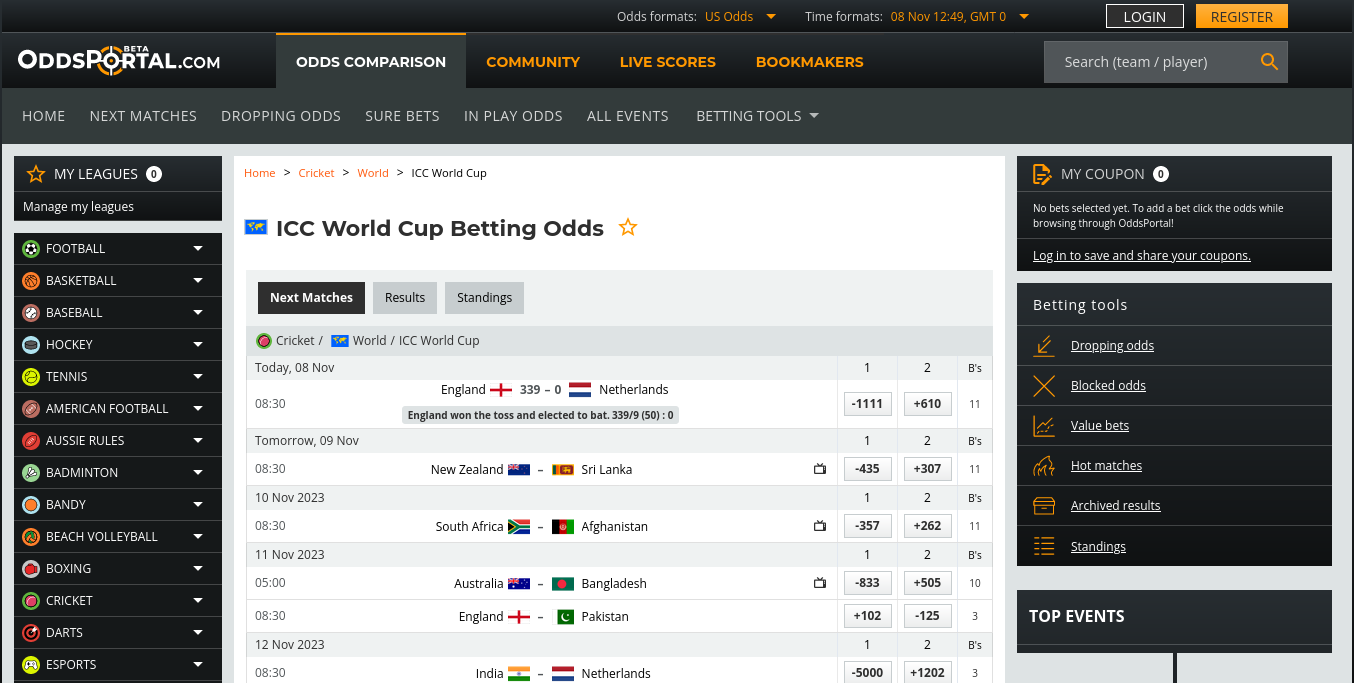
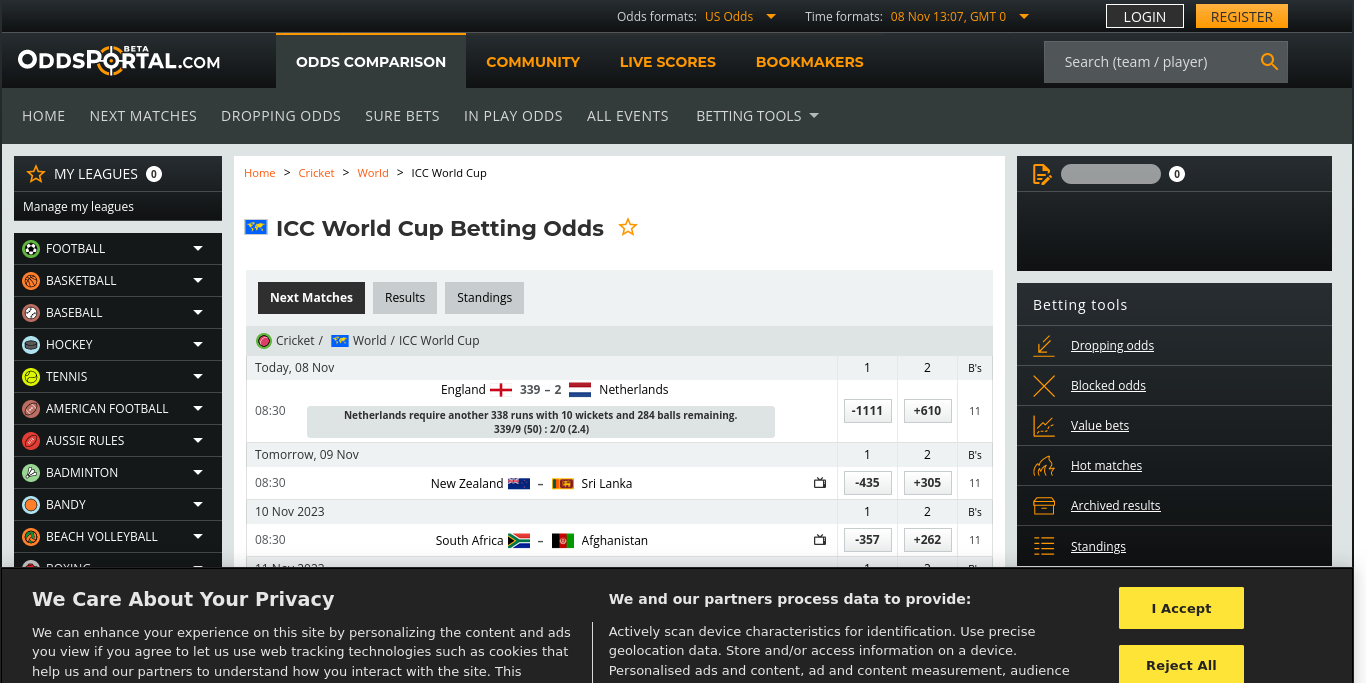
Update Data Wed Nov  8 13:07:26 UTC 2023

diff --git a/src/nonview/data/TEAM1_ID_TO_TEAM2_ID_TO_ODDS_PAIR.js b/src/nonview/data/TEAM1_ID_TO_TEAM2_ID_TO_ODDS_PAIR.js
@@ -1,6 +1,6 @@
 // Auto Generated by UpdateTeam1IDToTeam2IDToOddsPair
 // https://www.oddsportal.com/cricket/world/icc-world-cup/
-// 2023-11-08 18:19:46 +0000
+// 2023-11-08 18:37:19 +0000
 
 import { TEAM } from "../core/Team.js";
 
@@ -9,7 +9,7 @@ export const TEAM1_ID_TO_TEAM2_ID_TO_ODDS_PAIR = {
     [TEAM.NLD.id]: [1.09, 7.10],
   },
   [TEAM.NZL.id]: {
-    [TEAM.LKA.id]: [1.23, 4.07],
+    [TEAM.LKA.id]: [1.23, 4.05],
   },
   [TEAM.ZAF.id]: {
     [TEAM.AFG.id]: [1.28, 3.62],

diff --git a/src/nonview/constants/VERSION.js b/src/nonview/constants/VERSION.js
@@ -1,4 +1,4 @@
 // Auto-generated by javascript_version.py
-export const VERSION_UT = 1699447792;
+export const VERSION_UT = 1699448846;
 export const VERSION_DATETIME = new Date(VERSION_UT * 1_000);
 export const LAST_COMMIT_MESSAGE = "Updated 📊Data";

diff --git a/src/nonview/data/ODI_ID_TO_WINNER.js b/src/nonview/data/ODI_ID_TO_WINNER.js
@@ -1,6 +1,6 @@
 // Auto Generated by UpdateODIIDToWinner
 // https://www.cricbuzz.com/cricket-series/6732/icc-cricket-world-cup-2023/matches
-// 2023-11-08 18:19:28 +0000
+// 2023-11-08 18:37:01 +0000
 
 import { TEAM } from "../core/Team.js";
 

diff --git a/src/nonview/data/POINTS_TABLE.js b/src/nonview/data/POINTS_TABLE.js
@@ -1,6 +1,6 @@
 // Auto Generated by UpdatePointsTable
 // https://www.cricketworldcup.com/standings
-// 2023-11-08 18:19:38 +0000
+// 2023-11-08 18:37:11 +0000
 
 import { TEAM } from "../core/Team.js";
 
